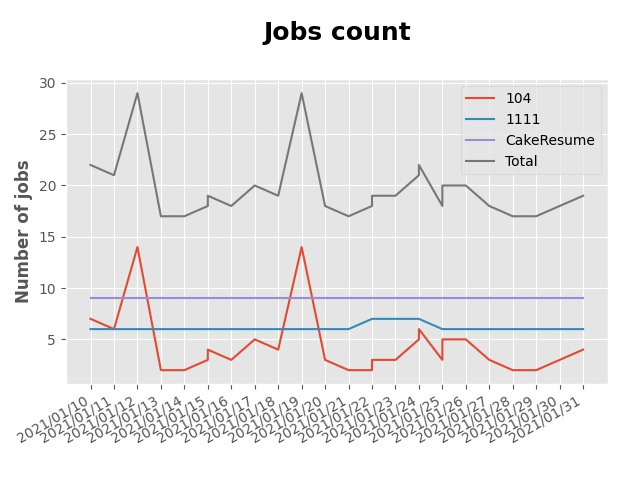
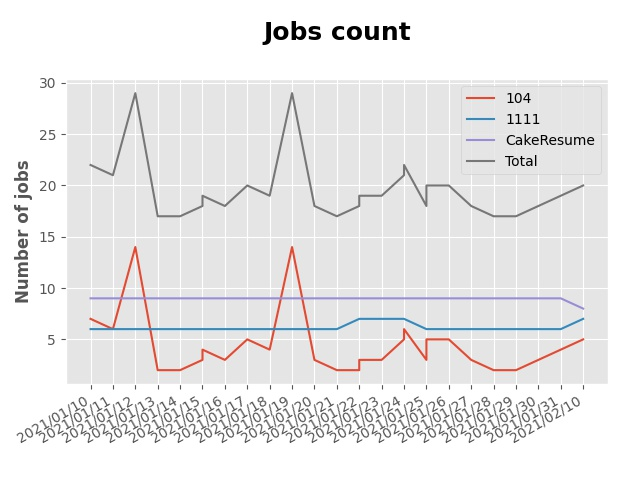
fix(1111): fix crawler of 1111

diff --git a/crawlers/a1111.py b/crawlers/a1111.py
@@ -11,19 +11,21 @@ class A1111(BaseCrawler):
     platform_url = "https://www.1111.com.tw/search/job?ks={}&page={}&fs=1"
 
     def get_job_list(self, soup: BeautifulSoup) -> ResultSet:
-        return soup.find_all("ul", class_="si-item")
+        return soup.find_all("div", class_="item__job")
 
     def get_company_name(self, job: Tag) -> str:
-        return job.find(class_="it-md").find("a", class_="d-block organ").text.replace("|", "/")
+        return job.find(class_="item__job-organ--link").get("aria-label")
 
     def get_company_link(self, job: Tag) -> str:
-        return job.find(class_="it-md").find("a", class_="d-block organ").get("href")
+        return job.find(class_="item__job-organ--link").get("href")
 
     def get_job_name(self, job: Tag) -> str:
-        return job.find("a").get("title").replace("|", "/")
+        return job.find(class_="item__job-info--link").text
 
     def get_job_link(self, job: Tag) -> str:
-        return job.find("a").get("href")
+        return job.find(class_="item__job-info--link").get("href")
 
     def update_time(self, job: Tag) -> str:
-        return job.find(class_="date").text.replace("更新時間：","")
+        return job.find(class_="item__job-control-datechange").get("data-yyyy")
+        +"-"
+        +job.find(class_="item__job-control-datechange").get("data-mmdd")

diff --git a/README.md b/README.md
@@ -8,39 +8,40 @@
 ### Platform - 104
 
 
-|    | company                                                                           | job_title                                                                                    | update_time   |
-|---:|:----------------------------------------------------------------------------------|:---------------------------------------------------------------------------------------------|:--------------|
-|  1 | [今時科技股份有限公司](https://www.104.com.tw/company/1a2x6bl2u4?jobsource=2018indexpoc)    | [網頁開發工程師](https://www.104.com.tw/job/75jgv?jobsource=2018indexpoc)                           | 1/31          |
-|  2 | [日新軟體股份有限公司](https://www.104.com.tw/company/oi77qwg?jobsource=jolist_b_relevance) | [Python 資深工程師](https://www.104.com.tw/job/6yfn5?jobsource=jolist_b_relevance)                | 1/28          |
-|  3 | [禾新數位有限公司](https://www.104.com.tw/company/1a2x6bjs3i?jobsource=2018indexpoc)      | [[ S-01 ] Developer 開發工程師 (Python)](https://www.104.com.tw/job/6rrkz?jobsource=2018indexpoc) | 1/30          |
-|  4 | [紅門互動股份有限公司](https://www.104.com.tw/company/oh4m67k?jobsource=jolist_b_relevance) | [Python Flask網站開發工程師(台北)](https://www.104.com.tw/job/6xtfl?jobsource=jolist_b_relevance)     | 1/26          |
+|    | company                                                                              | job_title                                                                                               | update_time   |
+|---:|:-------------------------------------------------------------------------------------|:--------------------------------------------------------------------------------------------------------|:--------------|
+|  1 | [Tomofun_友愉股份有限公司](https://www.104.com.tw/company/1a2x6bj1nc?jobsource=2018indexpoc) | [Sr. Backend/DevOps Engineer 資深後端工程師 (AWS)](https://www.104.com.tw/job/4jwwz?jobsource=2018indexpoc)    | 2/09          |
+|  2 | [大數據股份有限公司](https://www.104.com.tw/company/1a2x6bjjhc?jobsource=2018indexpoc)        | [分析研發工程師: AI, Deep Learning, Machine Learning](https://www.104.com.tw/job/54ffa?jobsource=2018indexpoc) | 2/09          |
+|  3 | [禾向數位科技有限公司](https://www.104.com.tw/company/1a2x6bl8h8?jobsource=2018indexpoc)       | [Python Backend Engineer](https://www.104.com.tw/job/71i7c?jobsource=2018indexpoc)                      | 2/09          |
+|  4 | [紅番茄愛娛樂股份有限公司](https://www.104.com.tw/company/1a2x6bkx4r?jobsource=2018indexpoc)     | [遊戲後端工程師 Back-End Developer](https://www.104.com.tw/job/71ahq?jobsource=2018indexpoc)                   | 2/09          |
+|  5 | [紅石資訊有限公司](https://www.104.com.tw/company/1a2x6bl8xj?jobsource=2018indexpoc)         | [(後台系統開發)python軟體工程師](https://www.104.com.tw/job/7288s?jobsource=2018indexpoc)                          | 2/09          |
 
 ### Platform - 1111
 
 
-|    | company                                                  | job_title                                           | update_time   |
-|---:|:---------------------------------------------------------|:----------------------------------------------------|:--------------|
-|  1 | [展市華科技有限公司](https://www.1111.com.tw/corp/72520572/)      | [全端網頁工程師](https://www.1111.com.tw/job/91503317/)    | 2021-01-27    |
-|  2 | [展市華科技有限公司](https://www.1111.com.tw/corp/72520572/)      | [後端開發工程師](https://www.1111.com.tw/job/92133533/)    | 2021-01-27    |
-|  3 | [展市華科技有限公司](https://www.1111.com.tw/corp/72520572/)      | [網頁工程師](https://www.1111.com.tw/job/91605448/)      | 2021-01-27    |
-|  4 | [諾客網科股份有限公司](https://www.1111.com.tw/corp/73092077/)     | [Python 工程師](https://www.1111.com.tw/job/92163911/) | 2021-01-20    |
-|  5 | [長青資訊股份有限公司](https://www.1111.com.tw/corp/71694811/)     | [後端工程師](https://www.1111.com.tw/job/85012186/)      | 2021-01-27    |
-|  6 | [鼎漢國際工程顧問股份有限公司](https://www.1111.com.tw/corp/51468466/) | [後端工程師](https://www.1111.com.tw/job/85884563/)      | 2021-01-28    |
+|    | company                                                  | job_title                                                              |   update_time |
+|---:|:---------------------------------------------------------|:-----------------------------------------------------------------------|--------------:|
+|  1 | [國立臺灣大學](https://www.1111.com.tw/corp/54510630/)         | [臺灣大學心理學系黃從仁老師誠徵網站前/後端全職/兼職工程師](https://www.1111.com.tw/job/92210744/) |          2021 |
+|  2 | [展市華科技有限公司](https://www.1111.com.tw/corp/72520572/)      | [全端網頁工程師](https://www.1111.com.tw/job/91503317/)                       |          2021 |
+|  3 | [展市華科技有限公司](https://www.1111.com.tw/corp/72520572/)      | [後端開發工程師](https://www.1111.com.tw/job/92133533/)                       |          2021 |
+|  4 | [展市華科技有限公司](https://www.1111.com.tw/corp/72520572/)      | [網頁工程師](https://www.1111.com.tw/job/91605448/)                         |          2021 |
+|  5 | [諾客網科股份有限公司](https://www.1111.com.tw/corp/73092077/)     | [Python 工程師](https://www.1111.com.tw/job/92163911/)                    |          2021 |
+|  6 | [長青資訊股份有限公司](https://www.1111.com.tw/corp/71694811/)     | [後端工程師](https://www.1111.com.tw/job/85012186/)                         |          2021 |
+|  7 | [鼎漢國際工程顧問股份有限公司](https://www.1111.com.tw/corp/51468466/) | [後端工程師](https://www.1111.com.tw/job/85884563/)                         |          2021 |
 
 ### Platform - CakeResume
 
 
 |    | company                                                                               | job_title                                                                                                                           | update_time          |
 |---:|:--------------------------------------------------------------------------------------|:------------------------------------------------------------------------------------------------------------------------------------|:---------------------|
-|  1 | [Cathay Financial Holdings 國泰金控](https://www.cakeresume.com/companies/cathayholdings) | [數位研發專業人員-Python Software Engineer(數數發中心, DDT)](https://www.cakeresume.com/companies/cathayholdings/jobs/f5c69a)                    | Updated 21 days ago  |
-|  2 | [愛碼市智能科技股份有限公司](https://www.cakeresume.com/companies/imarts)                          | [全端工程師 (台北)](https://www.cakeresume.com/companies/imarts/jobs/full-engineer-a09a83)                                                 | Updated 19 days ago  |
-|  3 | [愛碼市智能科技股份有限公司](https://www.cakeresume.com/companies/imarts)                          | [網頁後端工程師 (台北)](https://www.cakeresume.com/companies/imarts/jobs/senior-software-engineer-10852a)                                    | Updated a month ago  |
-|  4 | [愛飛媒平股份有限公司](https://www.cakeresume.com/companies/avmapping)                          | [Python網頁後端工程師](https://www.cakeresume.com/companies/avmapping/jobs/web-backend-engineer-c24e5a)                                    | Updated a month ago  |
-|  5 | [紅門互動股份有限公司](https://www.cakeresume.com/companies/eagleeye-5332f1)                    | [Python Flask網站開發工程師(台北)](https://www.cakeresume.com/companies/eagleeye-5332f1/jobs/python-flask-web-development-engineer-taipei)   | Updated 5 months ago |
-|  6 | [紅門互動股份有限公司](https://www.cakeresume.com/companies/eagleeye-5332f1)                    | [Python Flask網站研發工程師(台中)](https://www.cakeresume.com/companies/eagleeye-5332f1/jobs/python-flask-website-r-amp-d-engineer-taichung) | Updated 9 months ago |
-|  7 | [菜蟲農食股份有限公司](https://www.cakeresume.com/companies/tsaitung)                           | [後端工程師 (初階、資深)](https://www.cakeresume.com/companies/tsaitung/jobs/back-end-engineer-initial-senior)                                | Updated a month ago  |
-|  8 | [菜蟲農食股份有限公司](https://www.cakeresume.com/companies/tsaitung)                           | [Backend Developer (Junior & Senior)](https://www.cakeresume.com/companies/tsaitung/jobs/backend-developer-junior-senior)           | Updated a month ago  |
-|  9 | [訊真科技股份有限公司](https://www.cakeresume.com/companies/truetel)                            | [Cloud Service 軟體工程師](https://www.cakeresume.com/companies/truetel/jobs/cloud-service-software-engineer)                            | Updated 7 months ago |
+|  1 | [Cathay Financial Holdings 國泰金控](https://www.cakeresume.com/companies/cathayholdings) | [數位研發專業人員-Python Software Engineer(數數發中心, DDT)](https://www.cakeresume.com/companies/cathayholdings/jobs/f5c69a)                    | Updated a month ago  |
+|  2 | [Proto 新語科技有限公司](https://www.cakeresume.com/companies/proto-cx)                       | [Backend Developer (Python)](https://www.cakeresume.com/companies/proto-cx/jobs/backend-developer-python)                           | Updated 8 days ago   |
+|  3 | [愛飛媒平股份有限公司](https://www.cakeresume.com/companies/avmapping)                          | [Python網頁後端工程師](https://www.cakeresume.com/companies/avmapping/jobs/web-backend-engineer-c24e5a)                                    | Updated a month ago  |
+|  4 | [紅門互動股份有限公司](https://www.cakeresume.com/companies/eagleeye-5332f1)                    | [Python Flask網站開發工程師(台北)](https://www.cakeresume.com/companies/eagleeye-5332f1/jobs/python-flask-web-development-engineer-taipei)   | Updated 5 months ago |
+|  5 | [紅門互動股份有限公司](https://www.cakeresume.com/companies/eagleeye-5332f1)                    | [Python Flask網站研發工程師(台中)](https://www.cakeresume.com/companies/eagleeye-5332f1/jobs/python-flask-website-r-amp-d-engineer-taichung) | Updated 9 months ago |
+|  6 | [菜蟲農食股份有限公司](https://www.cakeresume.com/companies/tsaitung)                           | [後端工程師 (初階、資深)](https://www.cakeresume.com/companies/tsaitung/jobs/back-end-engineer-initial-senior)                                | Updated 2 months ago |
+|  7 | [菜蟲農食股份有限公司](https://www.cakeresume.com/companies/tsaitung)                           | [Backend Developer (Junior & Senior)](https://www.cakeresume.com/companies/tsaitung/jobs/backend-developer-junior-senior)           | Updated 2 months ago |
+|  8 | [訊真科技股份有限公司](https://www.cakeresume.com/companies/truetel)                            | [Cloud Service 軟體工程師](https://www.cakeresume.com/companies/truetel/jobs/cloud-service-software-engineer)                            | Updated 7 months ago |
 
 
 
